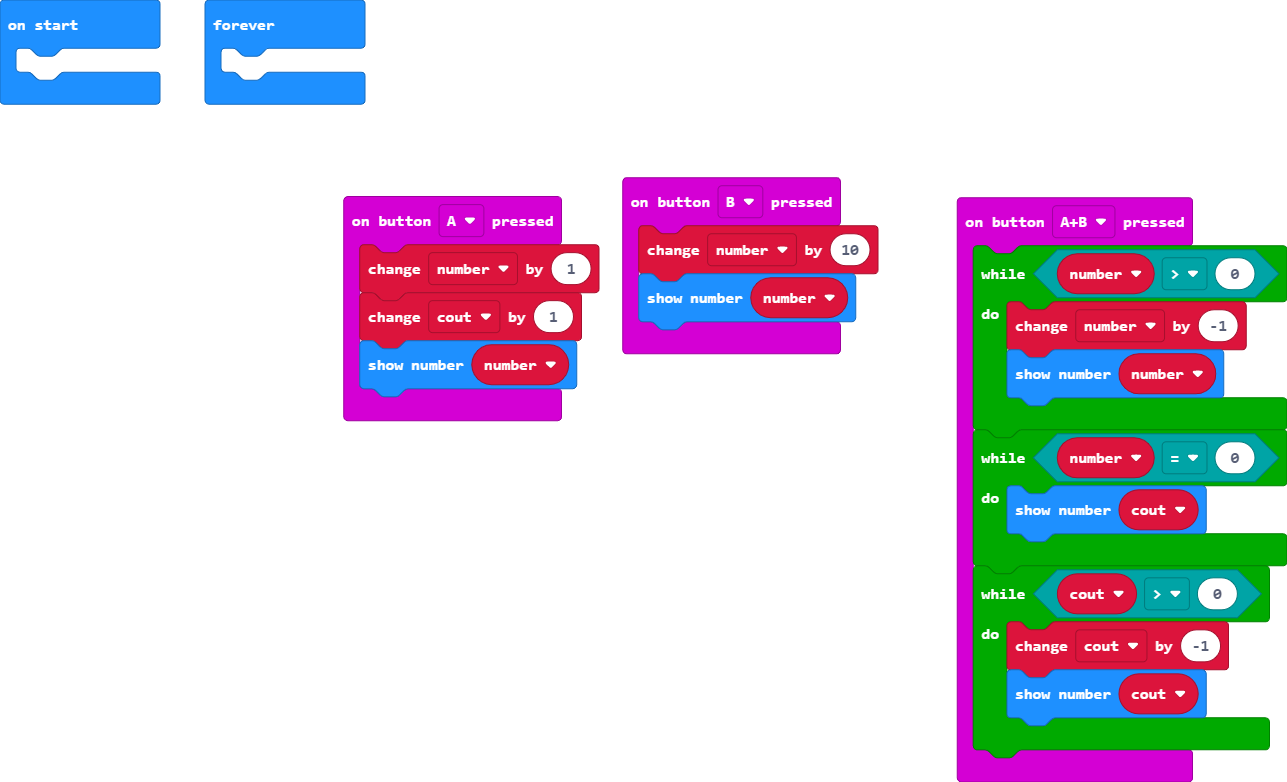
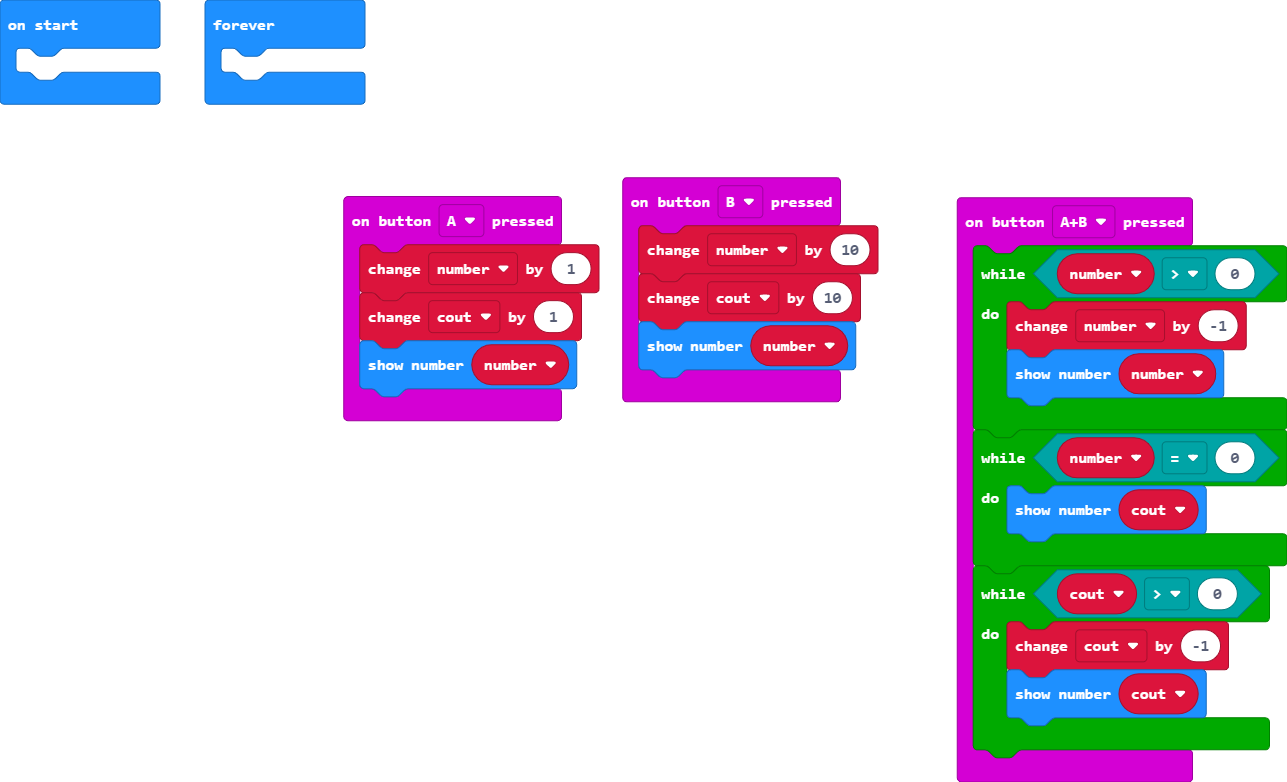
Update main.blocks, main.ts

Changed region(s): [[0.4662, 0.3376, 0.6838, 0.5217]]

diff --git a/main.ts b/main.ts
@@ -20,6 +20,7 @@ input.onButtonPressed(Button.AB, function () {
 })
 input.onButtonPressed(Button.B, function () {
     number += 10
+    cout += 10
     basic.showNumber(number)
 })
 basic.forever(function () {
